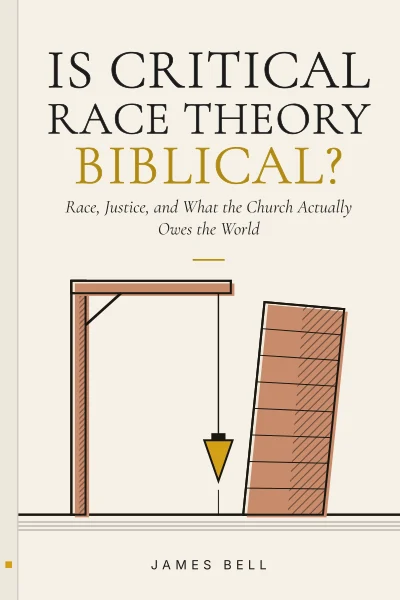
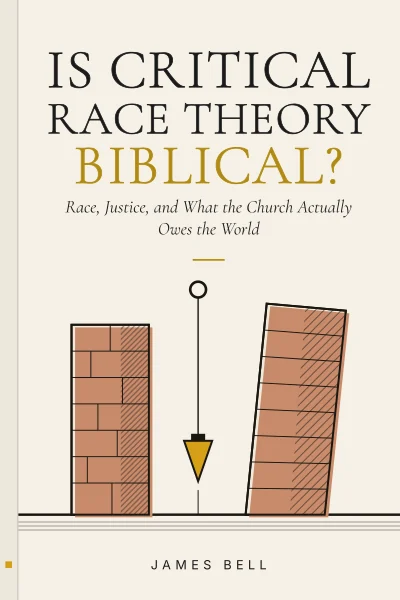
Covers: the plumb line hangs between two walls, with no beam and no post
Claude-Session: https://claude.ai/code/session_01JuCQ8kZ25i9zRwNgk6bh4e

Changed region(s): [[0.15, 0.45, 0.87, 0.87]]

diff --git a/docs/work/elite/bookshelf.md b/docs/work/elite/bookshelf.md
@@ -251,7 +251,7 @@ The type is the site's self-hosted fonts, set as outlines
 | The Reliability of Scripture | A clay storage jar and an unrolled scroll, its first letter gilded. |
 | What Does the Bible Really Say About Homosexuality? | A long table set with bread and a cup, under an arched window (the book's conclusion is "The Table Is Bigger Than the Argument"). |
 | What Does the Bible Say About Transgender Identity? | A door standing open, light falling through it across the floor. |
-| Is Critical Race Theory Biblical? | A plumb line hanging true beside a wall that leans. |
+| Is Critical Race Theory Biblical? | A plumb line hanging between a wall built true and a wall that leans. (A first drawing hung the line from a beam on a post; on this book that shape was wrong, and it was redrawn with no beam and no post.) |
 | Raising Believers | A young tree tied to a stake beside a house, the sun above it. |
 | Deacon Qualifications and Selection | A basin, a pitcher and a towel. |
 | Church Governance That Works | Three columns carrying a pediment. |
